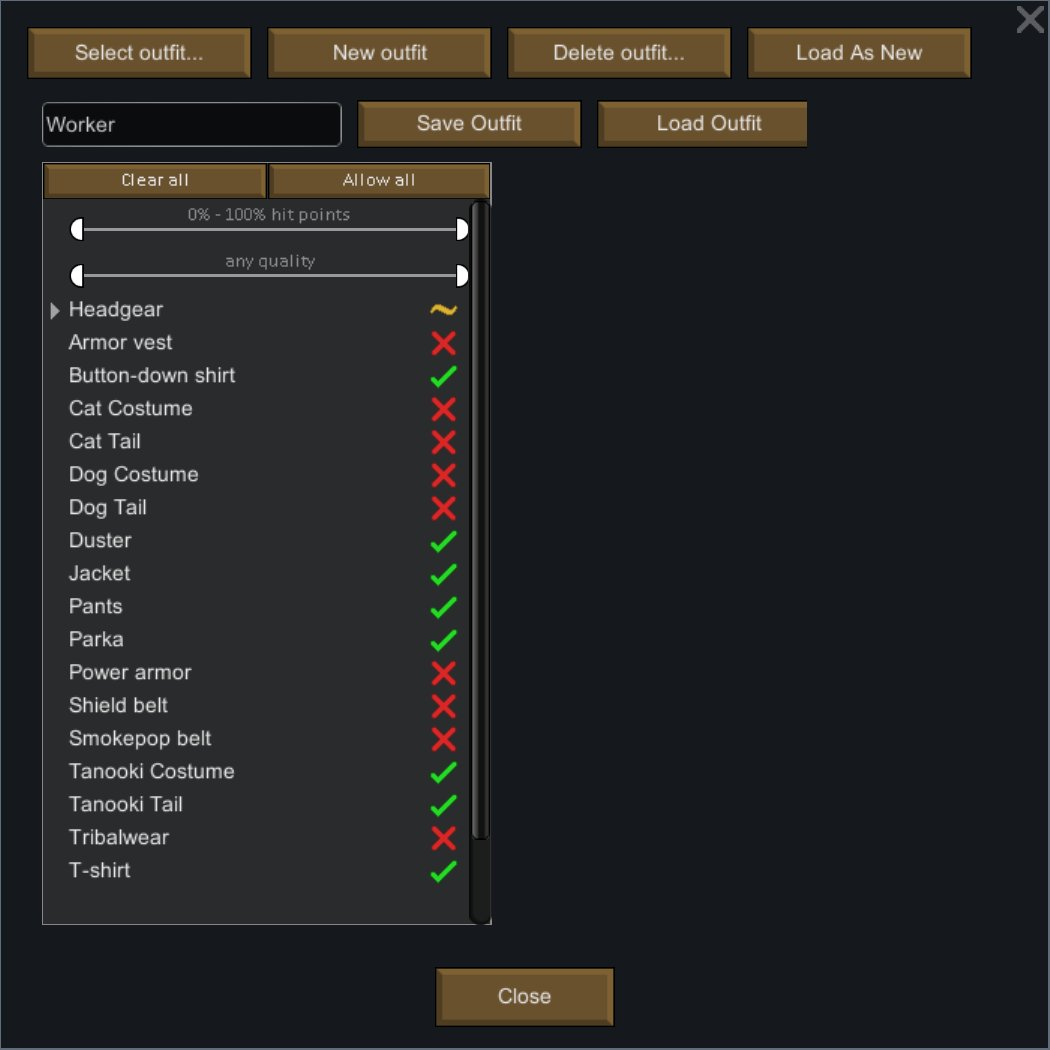
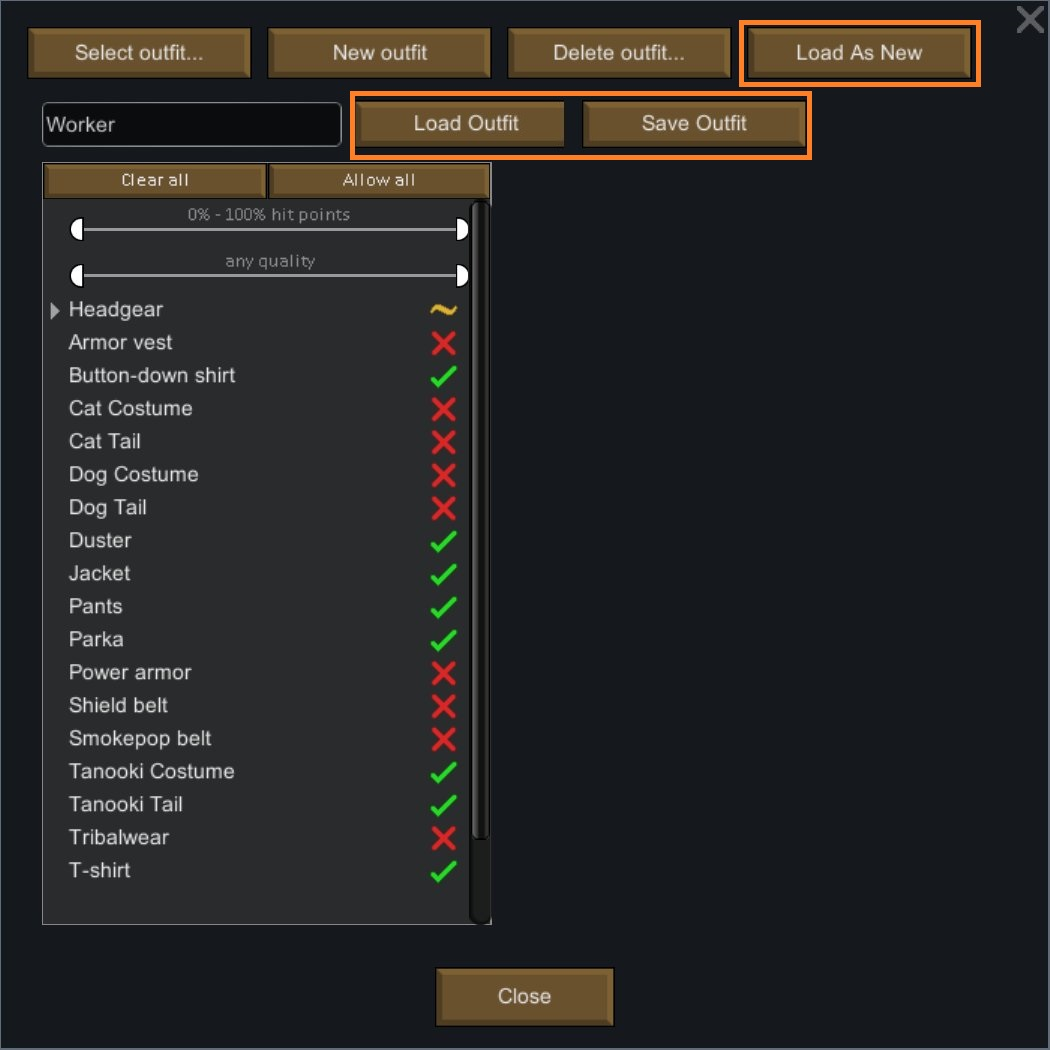
Adding the ability to load/save drug policies

Changed region(s): [[0.3352, 0.0, 0.9448, 0.1524]]

diff --git a/Source/IOUtil.cs b/Source/IOUtil.cs
@@ -125,6 +125,63 @@ namespace SaveStorageSettings
             return bills;
         }
 
+        internal static void LoadPolicy(DrugPolicy drugPolicy, FileInfo fi)
+        {
+            try
+            {
+                if (fi.Exists)
+                {
+                    // Load Data
+                    using (StreamReader sr = new StreamReader(fi.FullName))
+                    {
+                        string[] kv = null;
+                        if (sr.EndOfStream ||
+                            !ReadField(sr, out kv))
+                        {
+                            throw new Exception("Trying to read from an empty file");
+                        }
+
+                        if (kv != null && "1".Equals(kv[1]))
+                        {
+                            while (!sr.EndOfStream)
+                            {
+                                if (ReadField(sr, out kv))
+                                {
+                                    switch (kv[0])
+                                    {
+                                        case "name":
+                                            drugPolicy.label = kv[1];
+                                            break;
+                                        case "drug":
+                                            DrugPolicyEntry e;
+                                            if (TryCreateDrugPolicyEntry(sr, out e))
+                                            {
+                                                for (int i = 0; i < drugPolicy.Count; ++i)
+                                                {
+                                                    if (drugPolicy[i].drug.defName.Equals(e.drug.defName))
+                                                    {
+                                                        drugPolicy[i] = e;
+                                                    }
+                                                }
+                                            }
+                                            break;
+                                    }
+                                }
+                            }
+                        }
+                        else
+                        {
+                            throw new Exception("Unsupported version: " + kv[1]);
+                        }
+                    }
+                }
+            }
+            catch (Exception e)
+            {
+                LogException("Problem loading storage settings file '" + fi.Name + "'.", e);
+            }
+        }
+
         static void LogException(string msg, Exception e)
         {
             Log.Warning(msg + Environment.NewLine + e.GetType().Name + " " + e.Message + " " + e.StackTrace);
@@ -175,7 +232,16 @@ namespace SaveStorageSettings
                                 WriteField(sw, "skillRange", p.allowedSkillRange.ToString());
                                 WriteField(sw, "suspended", p.suspended.ToString());
                                 WriteField(sw, "ingSearchRadius", p.ingredientSearchRadius.ToString());
-                                WriteField(sw, "storeMode", p.GetStoreMode().defName);
+                                BillStoreModeDef storeMode = p.GetStoreMode();
+                                if (storeMode == BillStoreModeDefOf.SpecificStockpile)
+                                {
+                                    Log.Message(
+                                        "Saving bill [" + p.recipe.defName + 
+                                        "] store mode from [" + BillStoreModeDefOf.SpecificStockpile.ToString() + 
+                                        "] to [" + BillStoreModeDefOf.BestStockpile.ToString() + "]");
+                                    storeMode = BillStoreModeDefOf.BestStockpile;
+                                }
+                                WriteField(sw, "storeMode", storeMode.defName);
                                 WriteField(sw, "repeatMode", p.repeatMode.defName);
                                 WriteField(sw, "repeatCount", p.repeatCount.ToString());
                                 WriteField(sw, "targetCount", p.targetCount.ToString());
@@ -185,6 +251,44 @@ namespace SaveStorageSettings
                                 WriteField(sw, "ingredientFilter", "");
                                 WriteFiltersToFile(p.ingredientFilter, sw);
                             }
+                            WriteField(sw, BREAK, BREAK);
+                        }
+                    }
+                }
+            }
+            catch (Exception e)
+            {
+                LogException("Problem saving storage settings file '" + fi.Name + "'.", e);
+                return false;
+            }
+            return true;
+        }
+
+        public static bool SavePolicySettings(DrugPolicy policy, FileInfo fi)
+        {
+            try
+            {
+                // Write Data
+                using (FileStream fileStream = File.Open(fi.FullName, FileMode.Create, FileAccess.Write))
+                {
+                    using (StreamWriter sw = new StreamWriter(fileStream))
+                    {
+                        WriteField(sw, "Version", "1");
+
+                        WriteField(sw, "name", policy.label);
+                        for (int i = 0; i < policy.Count; ++i)
+                        {
+                            DrugPolicyEntry e = policy[i];
+                            WriteField(sw, "drug", i.ToString());
+                            WriteField(sw, "defName", e.drug.defName);
+                            WriteField(sw, "allowedForAddiction", e.allowedForAddiction.ToString());
+                            WriteField(sw, "allowedForJoy", e.allowedForJoy.ToString());
+                            WriteField(sw, "allowScheduled", e.allowScheduled.ToString());
+                            WriteField(sw, "daysFrequency", e.daysFrequency.ToString());
+                            WriteField(sw, "onlyIfJoyBelow", e.onlyIfJoyBelow.ToString());
+                            WriteField(sw, "onlyIfMoodBelow", e.onlyIfMoodBelow.ToString());
+                            WriteField(sw, "takeToInventory", e.takeToInventory.ToString());
+                            WriteField(sw, "takeToInventoryTempBuffer", e.takeToInventoryTempBuffer);
                             WriteField(sw, BREAK, BREAK);
                         }
                     }
@@ -295,6 +399,81 @@ namespace SaveStorageSettings
                 }
                 Log.Warning(error);
                 bill = null;
+                return false;
+            }
+            return true;
+        }
+
+        private static bool TryCreateDrugPolicyEntry(StreamReader sr, out DrugPolicyEntry entry)
+        {
+            entry = null;
+            string[] kv = null;
+            try
+            {
+                while (!sr.EndOfStream)
+                {
+                    if (ReadField(sr, out kv))
+                    {
+                        switch (kv[0])
+                        {
+                            case BREAK:
+                                return true;
+                            case "defName":
+                                ThingDef def = DefDatabase<ThingDef>.GetNamed(kv[1]);
+                                if (def == null)
+                                {
+                                    Log.Warning("Unable to load drug policy with Drug of [" + kv[1] + "]");
+                                    return false;
+                                }
+                                entry = new DrugPolicyEntry();
+                                entry.drug = def;
+                                break;
+                            case "allowedForAddiction":
+                                entry.allowedForAddiction = bool.Parse(kv[1]);
+                                break;
+                            case "allowedForJoy":
+                                entry.allowedForJoy = bool.Parse(kv[1]);
+                                break;
+                            case "allowScheduled":
+                                entry.allowScheduled = bool.Parse(kv[1]);
+                                break;
+                            case "daysFrequency":
+                                entry.daysFrequency = int.Parse(kv[1]);
+                                break;
+                            case "onlyIfJoyBelow":
+                                entry.onlyIfJoyBelow = float.Parse(kv[1]);
+                                break;
+                            case "onlyIfMoodBelow":
+                                entry.onlyIfMoodBelow = float.Parse(kv[1]);
+                                break;
+                            case "takeToInventory":
+                                entry.takeToInventory = int.Parse(kv[1]);
+                                break;
+                            case "takeToInventoryTempBuffer":
+                                entry.takeToInventoryTempBuffer = kv[1];
+                                break;
+                        }
+                    }
+                }
+            }
+            catch
+            {
+                string error = "";
+                if (entry != null && entry.drug != null)
+                {
+                    error = "Unable to load drug policy [" + entry.drug.defName + "].";
+                }
+                else
+                {
+                    error = "Unable to load a drug policy.";
+                }
+
+                if (kv == null || kv.Length < 2)
+                {
+                    error += " Current line: [" + kv[0] + ":" + kv[1] + "]";
+                }
+                Log.Warning(error);
+                entry = null;
                 return false;
             }
             return true;

diff --git a/Source/HarmonyPatches.cs b/Source/HarmonyPatches.cs
@@ -27,7 +27,8 @@ namespace SaveStorageSettings
                 "    Postfix:\n" +
                 "        Building.GetGizmos(IEnumerable<Gizmo>)\n" +
                 "        Zone_Stockpile.GetGizmos(IEnumerable<Gizmo>)\n" +
-                "        Dialog_ManageOutfits.DoWindowContents(Rect)\n");
+                "        Dialog_ManageOutfits.DoWindowContents(Rect)\n" +
+                "        Dialog_ManageDrugPolicies.DoWindowContents(Rect)\n");
 
             DeleteXTexture = ContentFinder<Texture2D>.Get("UI/Buttons/Delete", true);
             SaveTexture = ContentFinder<Texture2D>.Get("UI/save", true);
@@ -141,13 +142,13 @@ namespace SaveStorageSettings
             {
                 Text.Font = GameFont.Small;
                 GUI.BeginGroup(new Rect(220f, 49f, 300, 32f));
-                if (Widgets.ButtonText(new Rect(0f, 0f, 150f, 32f), "SaveStorageSettings.SaveOutfit".Translate(), true, false, true))
+                if (Widgets.ButtonText(new Rect(0f, 0f, 150f, 32f), "SaveStorageSettings.LoadOutfit".Translate(), true, false, true))
                 {
                     Find.WindowStack.Add(new LoadFilterDialog("Apparel_Management", selectedOutfit.filter));
                 }
-                if (Widgets.ButtonText(new Rect(160f, 0f, 150f, 32f), "LoadStorageSettings.SaveOutfit".Translate(), true, false, true))
+                if (Widgets.ButtonText(new Rect(160f, 0f, 150f, 32f), "SaveStorageSettings.SaveOutfit".Translate(), true, false, true))
                 {
-                    Find.WindowStack.Add(new LoadFilterDialog("Apparel_Management", selectedOutfit.filter));
+                    Find.WindowStack.Add(new SaveFilterDialog("Apparel_Management", selectedOutfit.filter));
                 }
                 GUI.EndGroup();
             }
@@ -161,6 +162,50 @@ namespace SaveStorageSettings
         private static void SetSelectedOutfit(Dialog_ManageOutfits dialog, Outfit selectedOutfit)
         {
             typeof(Dialog_ManageOutfits).GetProperty("SelectedOutfit", BindingFlags.NonPublic | BindingFlags.Instance | BindingFlags.GetProperty).SetValue(dialog, selectedOutfit, null);
+        }
+    }
+
+    [HarmonyPatch(typeof(Dialog_ManageDrugPolicies), "DoWindowContents")]
+    static class Patch_Dialog_Dialog_ManageDrugPolicies
+    {
+        static void Postfix(Dialog_ManageDrugPolicies __instance, Rect inRect)
+        {
+            float x = 500;
+            if (Widgets.ButtonText(new Rect(x, 0, 150f, 35f), "SaveStorageSettings.LoadAsNew".Translate(), true, false, true))
+            {
+                DrugPolicy policy = Current.Game.drugPolicyDatabase.MakeNewDrugPolicy();
+                SetDrugPolicy(__instance, policy);
+
+                Find.WindowStack.Add(new LoadPolicyDialog("DrugPolicy", policy));
+            }
+            x += 160;
+
+            DrugPolicy selectedPolicy = GetDrugPolicy(__instance);
+            if (selectedPolicy != null)
+            {
+                Text.Font = GameFont.Small;
+                if (Widgets.ButtonText(new Rect(x, 0f, 75, 35f), "LoadGameButton".Translate(), true, false, true))
+                {
+                    string label = selectedPolicy.label;
+                    Find.WindowStack.Add(new LoadPolicyDialog("DrugPolicy", selectedPolicy));
+                    selectedPolicy.label = label;
+                }
+                x += 80;
+                if (Widgets.ButtonText(new Rect(x, 0f, 75, 35f), "SaveGameButton".Translate(), true, false, true))
+                {
+                    Find.WindowStack.Add(new SavePolicyDialog("DrugPolicy", selectedPolicy));
+                }
+            }
+        }
+
+        private static DrugPolicy GetDrugPolicy(Dialog_ManageDrugPolicies dialog)
+        {
+            return (DrugPolicy)typeof(Dialog_ManageDrugPolicies).GetProperty("SelectedPolicy", BindingFlags.NonPublic | BindingFlags.Instance | BindingFlags.GetProperty).GetValue(dialog, null);
+        }
+
+        private static void SetDrugPolicy(Dialog_ManageDrugPolicies dialog, DrugPolicy selectedPolicy)
+        {
+            typeof(Dialog_ManageDrugPolicies).GetProperty("SelectedPolicy", BindingFlags.NonPublic | BindingFlags.Instance | BindingFlags.GetProperty).SetValue(dialog, selectedPolicy, null);
         }
     }
 }

diff --git a/Source/Dialog/LoadDialog.cs b/Source/Dialog/LoadDialog.cs
@@ -83,4 +83,29 @@ namespace SaveStorageSettings.Dialog
             base.Close();
         }
     }
+
+    class LoadPolicyDialog : FileListDialog
+    {
+        private readonly DrugPolicy DrugPolicy;
+
+        internal LoadPolicyDialog(string storageTypeName, DrugPolicy drugPolicy) : base(storageTypeName)
+        {
+            this.DrugPolicy = drugPolicy;
+            this.interactButLabel = "LoadGameButton".Translate();
+        }
+
+        protected override bool ShouldDoTypeInField
+        {
+            get
+            {
+                return false;
+            }
+        }
+
+        protected override void DoFileInteraction(FileInfo fi)
+        {
+            IOUtil.LoadPolicy(this.DrugPolicy, fi);
+            base.Close();
+        }
+    }
 }

diff --git a/Source/Dialog/SaveDialog.cs b/Source/Dialog/SaveDialog.cs
@@ -53,4 +53,29 @@ namespace SaveStorageSettings.Dialog
             base.Close();
         }
     }
+
+    class SavePolicyDialog : FileListDialog
+    {
+        private readonly DrugPolicy DrugPolicy;
+
+        internal SavePolicyDialog(string type, DrugPolicy drugPolicy) : base(type)
+        {
+            this.DrugPolicy = drugPolicy;
+            this.interactButLabel = "OverwriteButton".Translate();
+        }
+
+        protected override bool ShouldDoTypeInField
+        {
+            get
+            {
+                return true;
+            }
+        }
+
+        protected override void DoFileInteraction(FileInfo fi)
+        {
+            IOUtil.SavePolicySettings(this.DrugPolicy, fi);
+            base.Close();
+        }
+    }
 }
